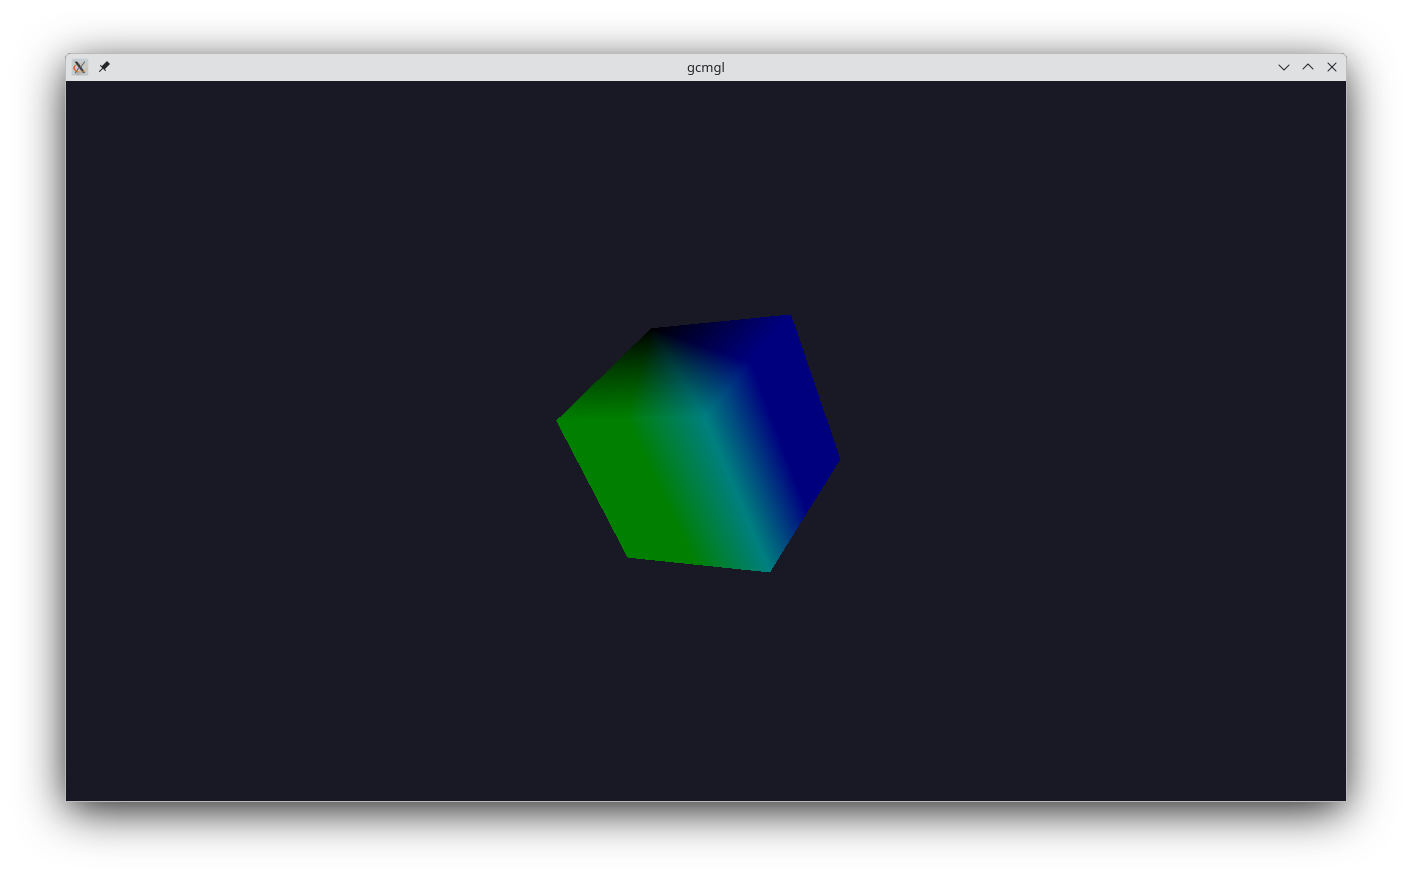
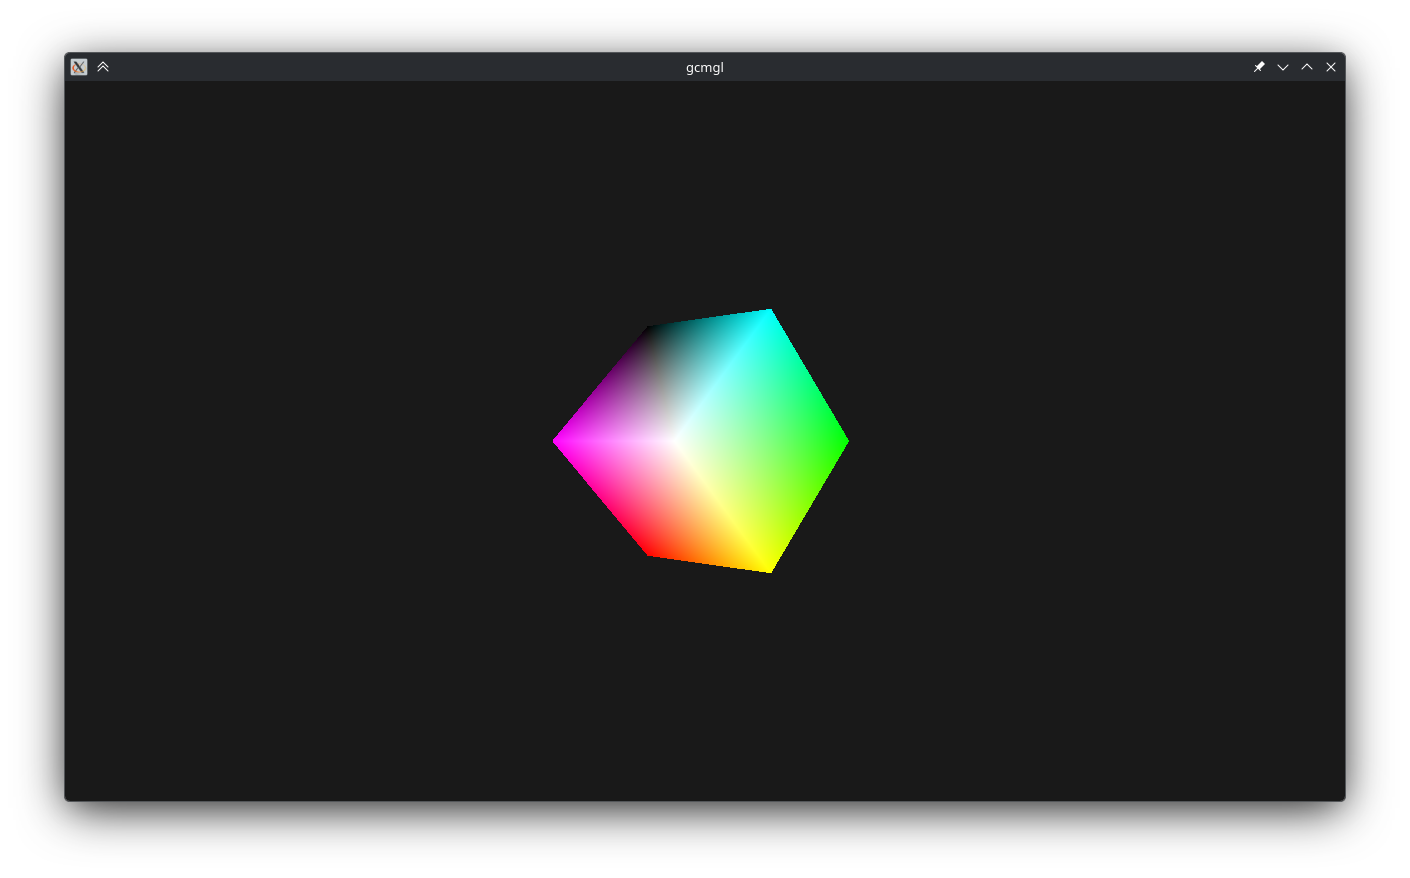
feat: update examples

Changed region(s): [[0.3745, 0.3383, 0.6241, 0.6765], [0.0312, 0.0615, 0.9674, 0.0923]]

diff --git a/src/examples/example_texturedLit/TexturedLit.cpp b/src/examples/example_texturedLit/TexturedLit.cpp
@@ -143,7 +143,7 @@ int32 RunTexturedLitExample(
 		&texChannels,
 		4);
 	uint32* pTextureData = GCMGL_NULL;
-	int32 finalWidth = 64, finalHeight = 64;
+	int32 finalWidth = 512, finalHeight = 512;
 
 	if (pRawImageData)
 	{
@@ -162,10 +162,10 @@ int32 RunTexturedLitExample(
 
 	// Create shader
 	ShaderProgramHandle hShaderProgram =
-		pRenderer->CreateShaderProgram("texturedLit");
+		pRenderer->CreateShaderProgram("example_textured_lit");
 	if (hShaderProgram == 0)
 	{
-		Error("[TexturedLit] Failed to create shader program 'texturedLit'\n");
+		Error("[TexturedLit] Failed to create shader program 'example_textured_lit'\n");
 		
 		return 1;
 	}

diff --git a/src/examples/example_textured/Textured.cpp b/src/examples/example_textured/Textured.cpp
@@ -52,10 +52,10 @@ int32 RunTexturedExample(
 	
 	// Create shader
 	ShaderProgramHandle hShaderProgram =
-		pRenderer->CreateShaderProgram("textured");
+		pRenderer->CreateShaderProgram("example_textured");
 	if (hShaderProgram == 0)
 	{
-		Error("[Textured] Failed to create shader program 'textured'\n");
+		Error("[Textured] Failed to create shader program 'example_textured'\n");
 
 		return 1;
 	}
@@ -135,7 +135,7 @@ int32 RunTexturedExample(
 		&texChannels,
 		4);
 	uint32* pTextureData = GCMGL_NULL;
-	int32 finalWidth = 64, finalHeight = 64;
+	int32 finalWidth = 512, finalHeight = 512;
  
 	if (pRawImageData)
 	{

diff --git a/src/examples/example_batch/Batch.cpp b/src/examples/example_batch/Batch.cpp
@@ -46,10 +46,10 @@ int32 RunBatchExample(
 	camera.m_Position = CVector3(0.0f, 2.5f, 9.33f);
 
 	// Create shader
-	ShaderProgramHandle hShaderProgram = pRenderer->CreateShaderProgram("rainbow");
+	ShaderProgramHandle hShaderProgram = pRenderer->CreateShaderProgram("example_rainbow");
 	if (hShaderProgram == 0)
 	{
-		Error("[Batch] Failed to create shader program 'rainbow'\n");
+		Error("[Batch] Failed to create shader program 'example_rainbow'\n");
 
 		return 1;
 	}

diff --git a/src/examples/example_lit/Lit.cpp b/src/examples/example_lit/Lit.cpp
@@ -66,10 +66,10 @@ int32 RunLitExample(
 	CCamera camera;
 
 	// Create shader
-	ShaderProgramHandle hShaderProgram = pRenderer->CreateShaderProgram("lit");
+	ShaderProgramHandle hShaderProgram = pRenderer->CreateShaderProgram("example_lit");
 	if (hShaderProgram == 0)
 	{
-		Error("[Lit] Failed to create shader program 'lit'\n");
+		Error("[Lit] Failed to create shader program 'example_lit'\n");
 
 		return 1;
 	}

diff --git a/src/examples/example_triangle/Triangle.cpp b/src/examples/example_triangle/Triangle.cpp
@@ -74,10 +74,10 @@ int32 RunTriangleExample(
 
 	// Create shader
 	ShaderProgramHandle hShaderProgram = pRenderer->CreateShaderProgram(
-		"rainbow");
+		"example_rainbow");
 	if (hShaderProgram == 0)
 	{
-		Error("[Triangle] Failed to create shader program 'rainbow'\n");
+		Error("[Triangle] Failed to create shader program 'example_rainbow'\n");
 
 		return 1;
 	}

diff --git a/src/examples/example_shader/Shader.cpp b/src/examples/example_shader/Shader.cpp
@@ -42,10 +42,10 @@ int32 RunShaderExample(
 
 	// Create shader
 	ShaderProgramHandle hShaderProgram = pRenderer->CreateShaderProgram(
-		"example");
+		"example_plasma");
 	if (hShaderProgram == 0)
 	{
-		Error("[Shader] Failed to create shader program 'example'\n");
+		Error("[Shader] Failed to create shader program 'example_plasma'\n");
 
 		return 1;
 	}

diff --git a/src/examples/example_cube/Cube.cpp b/src/examples/example_cube/Cube.cpp
@@ -112,10 +112,10 @@ int32 RunCubeExample(
 
 	// Create shader
 	ShaderProgramHandle hShaderProgram = pRenderer->CreateShaderProgram(
-		"rainbow");
+		"example_rainbow");
 	if (hShaderProgram == 0)
 	{
-		Error("[Cube] Failed to create shader program 'rainbow'\n");
+		Error("[Cube] Failed to create shader program 'example_rainbow'\n");
 
 		return 1;
 	}
